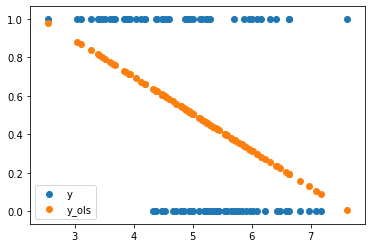
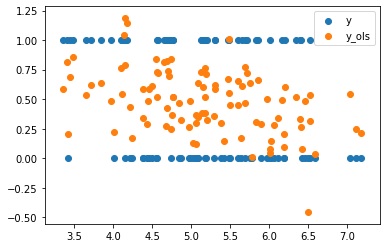
update logistic regression post

diff --git a/_posts/2019-11-08-Fastai-Lesson-2-Regression.md b/_posts/2019-11-08-Fastai-Lesson-2-Regression.md
@@ -3,7 +3,7 @@ layout: post
 title: Logistic Regression in PyTorch from Scratch (Lesson 2)
 ---
 
-In this article we will explore the logistic regression and how we can implement it using PyTorch. Contrary to regular regressions where the output variable $$y$$ is continuous, logistic regressions concern binary variables, i.e.,
+In this article we will explore the logistic regression and how we can implement it using PyTorch. Contrary to linear regressions where the output variable $$y$$ is continuous, logistic regressions concern binary variables, i.e.,
 
 $$
 y = \begin{cases}
@@ -12,13 +12,13 @@ y = \begin{cases}
 \end{cases}
 $$
 
-There are many applications that deal with these binary variables. Consider a spam classifier: typically we want to predict whether a particular email is spam ($$y=1$$) or not spam ($$y=0$$). Whether or not an email is spam typically depends on many features such as the sender, the content and the time of the email. These features are captured by $$\boldsymbol{x}$$. 
-
-Mathematically, we are interested in modelling the conditional probability of $$y = 1$$ given $$\boldsymbol{x}$$, i.e.,
+We are interested in modelling the conditional probability of $$y = 1$$ given $$\boldsymbol{x}$$, i.e.,
 
 $$
-p = P(y = 1 \mid \boldsymbol{X}; \boldsymbol{b}) = F(\boldsymbol{X}^T \boldsymbol{b})
-$$
+p = P(y = 1 \mid \boldsymbol{X}; \boldsymbol{b}) = F(\boldsymbol{X}^T \boldsymbol{b}).
+$$$
+
+As an example, we might want to find the probability of a patient having cancer ($$y=1$$) given the patient's medical information ($$x$$).
 
 ---
 
@@ -26,7 +26,7 @@ $$
 
 ---
 
-Since we want to model conditional probabilities, we want $$F$$ to map to the domain $$[0, 1]$$. A popular approach is to use the cumulative density function of any distribution. The most popular of which is the CDF of the logistic distribution. This function goes under the name of the sigmoid function, let's call it $$h$$, and it has some very nice properties. It is defined as
+Since we want to model conditional probabilities, we want $$F$$ to map to the domain $$[0, 1]$$. It now happens that the sigmoid function, let's call it $$h$$, has some very nice properties. It is defined as
 
 $$
 h(x) = \frac{1}{1 + e^{-x}}.
@@ -50,18 +50,19 @@ Let's first create a sample of our $$\boldsymbol{X}: n \times 2$$ feature matrix
 
 ```python
 x = torch.ones(n, 2) 
-x[:,1].normal_(5., 1.)
+x[:,0].normal_(1, 0.2)
+x[:,1].normal_(5, 1.)
 x[:5,:]
 ```
 
 
 
 
-    tensor([[1.0000, 5.7177],
-            [1.0000, 4.3741],
-            [1.0000, 5.1200],
-            [1.0000, 4.8178],
-            [1.0000, 6.2329]])
+    tensor([[1.1678, 6.1665],
+            [0.9792, 5.8922],
+            [1.3373, 4.1348],
+            [0.8830, 6.4242],
+            [1.0932, 5.6926]])
 
 
 
@@ -71,11 +72,11 @@ $$
 \boldsymbol{y}^* = \boldsymbol{X}^T\boldsymbol{b} + \boldsymbol{\varepsilon},
 $$
 
-where $$\boldsymbol{b} = [2, -1]$$ and $$\boldsymbol{\varepsilon} \sim \text{Logistic}(0, 1)$$
+where $$\boldsymbol{b} = [5, -1]$$ and $$\boldsymbol{\varepsilon} \sim \text{Logistic}(0, 1)$$
 
 
 ```python
-b = tensor(5.,-1.)
+b = tensor(5,-1.)
 
 # Create logistic distribution in pytorch using inverse CDF sampling
 base_distribution = torch.distributions.Uniform(0, 1)
@@ -84,7 +85,7 @@ logistic = torch.distributions.TransformedDistribution(base_distribution, transf
 
 # Take sample of errors and compute y_star
 error = logistic.rsample([n])
-y_star = torch.sigmoid(x@b + error)
+y_star = x@b + error
 ```
 
 The dependent variable can be computed as 
@@ -100,12 +101,14 @@ $$
 This relates to the probability $$p$$ as follows
 $$
 \begin{align}
-P(y^* > 0) &= P(\boldsymbol{X}^T\boldsymbol{b} + \boldsymbol{\varepsilon} > 0) & \\
-&= P(\boldsymbol{\varepsilon} \leq -\boldsymbol{X}^T\boldsymbol{b}) &\\
-&= P(\boldsymbol{\varepsilon} \leq \boldsymbol{X}^T\boldsymbol{b}) & \text{ (logistic regression is symmetric)} \\
+P(y = 1) &= P(y^* > 0) & \\
+&= P(\boldsymbol{x}^T\boldsymbol{b} + \varepsilon > 0) & \\
+&= P(\varepsilon > -\boldsymbol{x}^T\boldsymbol{b}) &\\
+&= P(\varepsilon \leq \boldsymbol{x}^T\boldsymbol{b}) & \text{ (logistic regression is symmetric)} \\
 &= F(\boldsymbol{X}^T\boldsymbol{b}) = p.
 \end{align}
 $$
+
 
 ```python
 y = y_star > 0
@@ -120,7 +123,7 @@ p = \boldsymbol{X}^T\boldsymbol{b} + \boldsymbol{\varepsilon},
 $$
 where $$\boldsymbol{\varepsilon} \sim (0, \sigma^2)$$.
 
-Note that although we have no guarantee that $$p$$ lies in the interval $$[0,1]$$, this rarily happens. A bigger problem is the heteroskedasticity of the error term. The linear model assumes the errors are homoskedastic, but it is possible to incoorporate heteroskedastic errors by estimating white standard errors.
+Note that although we have no guarantee that $$p$$ lies in the interval $$[0,1]$$, this rarely happens. A bigger problem is the heteroskedasticity of the error term. The linear model assumes the errors are homoskedastic, but it is possible to incoorporate heteroskedastic errors by estimating white standard errors.
 
 Since we are dealing with a linear model, we do not need gradient descent and we can compute the MLE estimator in one line. The OLS (and MLE) estimator for $$\boldsymbol{b}$$ is given by
 
@@ -132,10 +135,11 @@ This equation follows immediately from the first order condition of the mean-squ
 
 $$
 \begin{align}
-0 = \frac{\partial (\boldsymbol{y} - \boldsymbol{X}^T \boldsymbol{b})^T(\boldsymbol{y} - \boldsymbol{X}^T \boldsymbol{b})}{\partial \boldsymbol{b}} &= \frac{\partial \boldsymbol{y}^T\boldsymbol{y}}{\partial \boldsymbol{b}} - \frac{\partial 2\boldsymbol{b}^T\boldsymbol{X}^T\boldsymbol{y}}{\partial \boldsymbol{b}} + \frac{\boldsymbol{b}^T\boldsymbol{X}^T\boldsymbol{X}\boldsymbol{b}}{\partial \boldsymbol{b}} \\
+0 = \frac{\partial (\boldsymbol{y} - \boldsymbol{X}^T \boldsymbol{b})^T(\boldsymbol{y} - \boldsymbol{X}^T \boldsymbol{b})}{\partial \boldsymbol{b}} &= \frac{\partial \boldsymbol{y}^T\boldsymbol{y}}{\partial \boldsymbol{b}} - \frac{\partial 2\boldsymbol{b}^T\boldsymbol{X}^T\boldsymbol{y}}{\partial \boldsymbol{b}} + \frac{\boldsymbol{X}^T\boldsymbol{X}\boldsymbol{b}}{\partial \boldsymbol{b}} \\
 &= -2 \boldsymbol{X}^T \boldsymbol{y} + 2  \boldsymbol{X}^T  \boldsymbol{X} \boldsymbol{b}.
 \end{align}
 $$
+
 
 
 ```python
@@ -151,13 +155,15 @@ ax.scatter(x[:,1], y_linear, label='y_ols')
 leg = ax.legend();
 ```
 
-![png](../img/fastai-lesson2/output_10_0.png)
 
-Indeed, we observe that all observations lay between the $$[0, 1]$$ interval.
+![png](output_10_0.png)
+
+
+Indeed, we observe that almost all observations lay between the $$[0, 1]$$ interval.
 
 ## Logistic regression
 
-Unlike the linear regression, the logistic regression has no closed-form solution. The most popular way of estimating the parameters $$\boldsymbol{b}$$ is to estimate the maximum likelihood estimator. Consider the following product
+Unlike the linear regression, the logistic regression has no closed-form solution. The most popular way of estimating the parameters $$\boldsymbol{b}$$ is to estimate the maximum likelihood estimator:
 
 $$
 \begin{align}
@@ -168,10 +174,10 @@ $$
 
 Remember that we wanted $$P(y = 1 \mid \boldsymbol{x}_i; \boldsymbol{b})$$ to be close to one when $$y_i = 1$$. If that's our goal, it means that we want $$LL(\boldsymbol{b}; \boldsymbol{X}, \boldsymbol{y})$$ to be as large as possible. In other words, we want to find a $$\boldsymbol{b}$$ such that $$LL(\boldsymbol{b}; \boldsymbol{X}, \boldsymbol{y})$$ is maximised.
 
-Since computers do not like the product of many numbers between $$[0, 1]$$ because it results in floating point problems (why would that be?). Therefore, we take the log of the likelihood function. Since the log is a monotonic function, maximising the likelihood is the same as maximising the log-likelihood, i.e.,
+Since computers do not like the product of many numbers between $$[0, 1]$$ because it results in floating point problems (why would that be?). Therefore, we take the log of the likelihood function. Since the log is a monotonic function, maximising the likelihood is the same as maximising the log-likelihood. Because our objective is now additive, a last trick that we can use is to divide this log-likelihood by the sample size. This gives
 
 $$
-ll(\boldsymbol{b}; \boldsymbol{X}, \boldsymbol{y}) = \sum_{i=1}^N y_i \log(h(\boldsymbol{x}_i^T\boldsymbol{b})) + (1-y_i) \log(1-h(\boldsymbol{x}_i^T\boldsymbol{b})).
+ll(\boldsymbol{b}; \boldsymbol{X}, \boldsymbol{y}) = \frac{1}{N} \sum_{i=1}^N y_i \log(h(\boldsymbol{x}_i^T\boldsymbol{b})) + (1-y_i) \log(1-h(\boldsymbol{x}_i^T\boldsymbol{b})).
 $$
 
 In PyTorch we can simply formulate this as
@@ -179,7 +185,7 @@ In PyTorch we can simply formulate this as
 
 ```python
 def ll(x, y, b):
-    return(-torch.log(torch.sigmoid(x@b)[y]).sum() - torch.log(1 - torch.sigmoid(x@b)[~y]).sum())
+    return((1/len(y)) * (torch.log(torch.sigmoid(x@b)[y]).sum() + torch.log(1 - torch.sigmoid(x@b)[~y]).sum()))
 ```
 
 Like I mentioned before, this (log-)likelihood function does not have a closed-form solution (*check it if you want :)*). Therefore, we will apply the (stochastic) gradient descent algorithm to train our model.
@@ -195,7 +201,7 @@ def update():
     if t % 10 == 0: print(loss)
     with torch.no_grad():
         print(b.grad)
-        b.sub_(lr * b.grad)
+        b.sub_(-lr * b.grad)
         b.grad.zero_()
 ```
 
@@ -206,43 +212,65 @@ for t in range(10): update()
 print(b)
 ```
 
-    tensor(69.4351, grad_fn=<SubBackward0>)
-    tensor([12.9050, 80.7974])
-    tensor([ -49.0000, -229.5924])
-    tensor([nan, nan])
-    tensor([nan, nan])
-    tensor([nan, nan])
-    tensor([nan, nan])
-    tensor([nan, nan])
-    tensor([nan, nan])
-    tensor([nan, nan])
-    tensor([nan, nan])
+    tensor(-0.6698, grad_fn=<MulBackward0>)
+    tensor([-0.1090, -0.7824])
+    tensor([-0.0060, -0.2512])
+    tensor([ 0.0269, -0.0826])
+    tensor([ 0.0369, -0.0312])
+    tensor([ 0.0400, -0.0153])
+    tensor([ 0.0409, -0.0104])
+    tensor([ 0.0412, -0.0088])
+    tensor([ 0.0412, -0.0083])
+    tensor([ 0.0412, -0.0082])
+    tensor([ 0.0411, -0.0081])
     Parameter containing:
-    tensor([nan, nan], requires_grad=True)
+    tensor([ 1.3062, -0.2848], requires_grad=True)
 
 
 
 ```python
-plt.scatter(x[:,1], y.float())
-plt.scatter(x[:,1], (torch.sigmoid((x@b)) > 0.5).double())
+y_log = torch.sigmoid(x@b)
+y_log_hat = (y_log > 0.5).float()
+
+fig, ax = plt.subplots()
+ax.scatter(x[:,1], y.float(), label='y')
+ax.scatter(x[:,1], y_log, label='y_logistic')
+leg = ax.legend();
+```
+
+
+![png](output_17_0.png)
+
+
+## Evaluating the linear and logistic classification models
+
+The most basic tool to evaluate the performance of our classification models is to compute the accuracy. The accuracy is the percentage of correctly predicted labels $$\boldsymbol{y}$$. For our linear model we have
+
+
+```python
+(y_linear_hat == y.float()).sum().float() * 100 / len(y)
 ```
 
 
 
 
-    <matplotlib.collections.PathCollection at 0x1a25383a50>
+    tensor(75.)
+
+
+
+and our logistic model has an accuracy of
+
+
+```python
+(y_log_hat == y.float()).sum().float() * 100 / len(y)
+```
 
 
 
 
-![png](../img/fastai-lesson2/output_17_1.png)
+    tensor(72.)
 
 
---- 
-
-*The gradient descent implementation in pytorch does not work yet. If you know what I am doing wrong please let me know!*
-
----
 
 ## Conclusion
 
